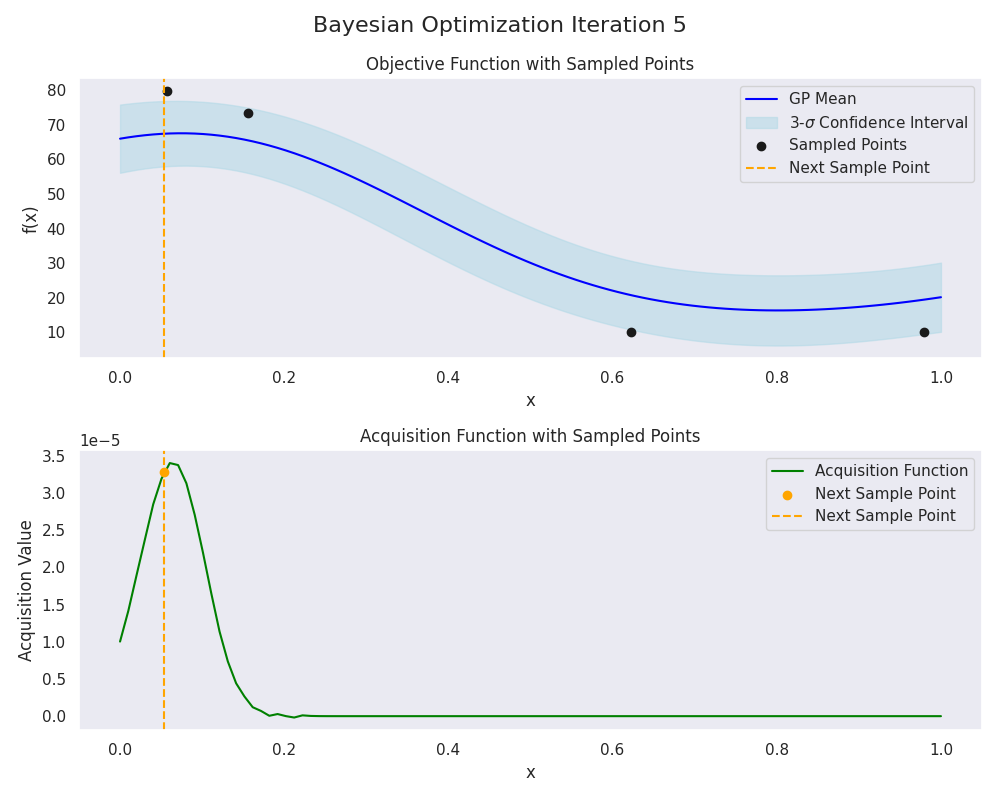
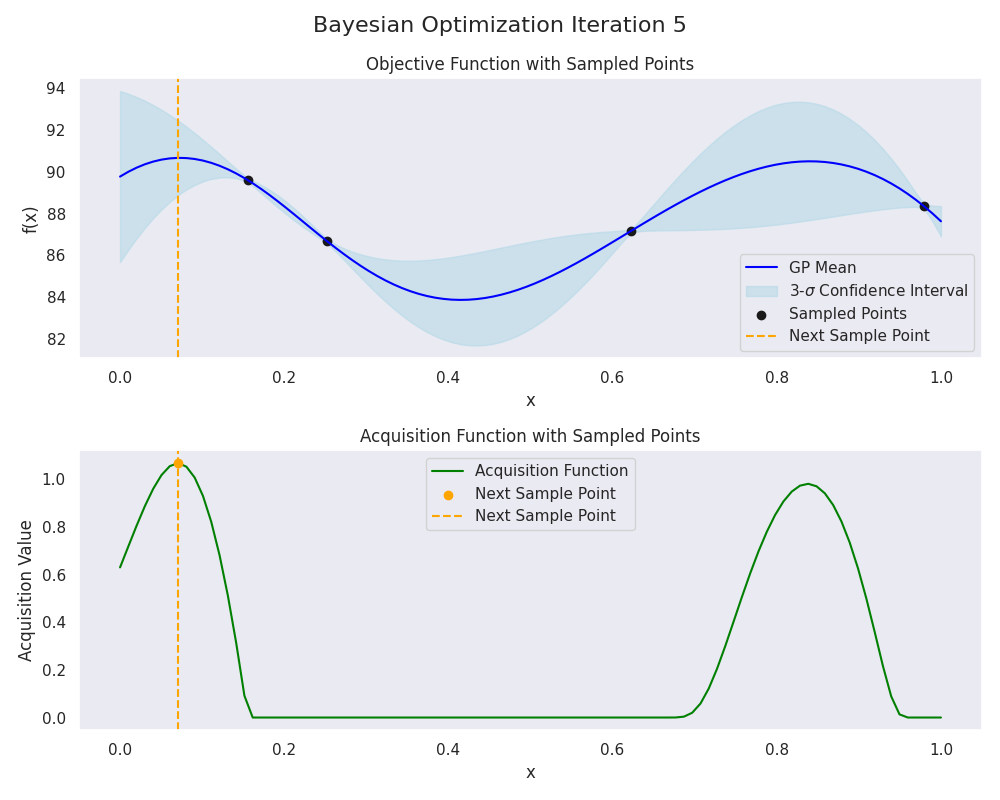
tuning kernel for original search space

diff --git a/main.py b/main.py
@@ -140,15 +140,26 @@ if __name__ == '__main__':
     # train with log10 transformation for learning rate
     print('Running Bayesian Optimization for ResNet with log10 '
           'transformation for learning rate...')
-    main(config=task_config)
+    # main(config=task_config)
 
     # Comment out the following to test without the log10 transformation
     # or check the results in the saved_results_no_transform directory
-    # import pathlib
-    # from copy import deepcopy
-    # print('Running Bayesian Optimization for ResNet without'
-    #       ' log10 transformation for learning rate...')
-    # no_transform_task_config = deepcopy(task_config)
-    # no_transform_task_config.hp_search_space_transformation = None
-    # no_transform_task_config.results_dir = pathlib.Path('results_no_transform')
-    # main(config=no_transform_task_config)
+    import pathlib
+    from copy import deepcopy
+    print('Running Bayesian Optimization for ResNet without'
+          ' log10 transformation for learning rate...')
+    no_transform_task_config = deepcopy(task_config)
+    no_transform_task_config.hp_search_space_transformation = None
+    no_transform_task_config.results_dir = pathlib.Path('results_no_transform')
+    # add kernel piror
+    no_transform_task_config.kernel = 'Matern'
+    no_transform_task_config.lengthscale_init_mean = 0.05
+    no_transform_task_config.outputscale_init_mean = 40
+    no_transform_task_config.noise_init_var = 0.1
+    no_transform_task_config.lengthscale_prior_mean = 0.05
+    no_transform_task_config.lengthscale_prior_std = 0.2
+    no_transform_task_config.outputscale_prior_mean = 40
+    no_transform_task_config.outputscale_prior_std = 20.0
+    no_transform_task_config.noise_prior_concentration = 0.1
+    no_transform_task_config.noise_prior_rate = 0.5
+    main(config=no_transform_task_config)
